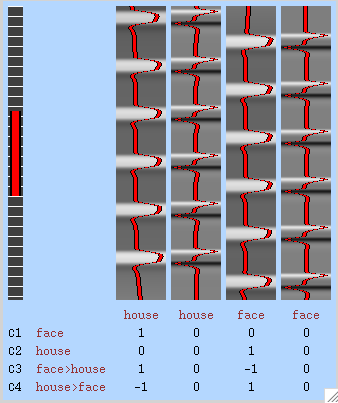
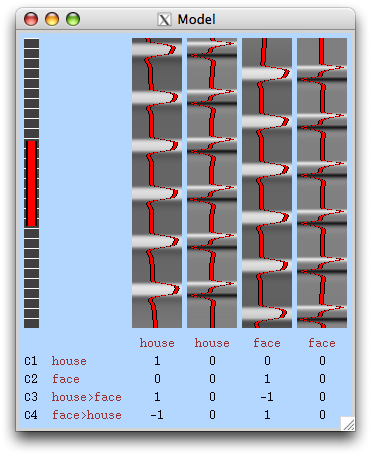
updated thirdlevel tutorial images

diff --git a/doc/tutorial_thirdlevel/tutorial.rst b/doc/tutorial_thirdlevel/tutorial.rst
@@ -208,9 +208,7 @@ When making these design files for your own projects, do not use a Windows machi
 
 .. _`problems with line endings`: http://en.wikipedia.org/wiki/Newline#Common_problems
 
-To use these files to specify the design, click the "Full model setup" button. Set EV name to "house". FSL calls regressors EV's, short for Explanatory Variables. Set "Basic shape" to "Custom (3 column format)" and select *design/house.txt*. That file on its own describes a square wave; to account for the shape of the BOLD response, we convolve it with another function that models the hemodynamic response to a stimulus. Set "Convolution" to "Double-Gamma HRF". Now to set up the face regressor set "Number of original EVs" to 2 and click to tab 2.
-
-.. image:: https://github.com/ntblab/neuropipe-support/raw/dev/doc/tutorial_thirdlevel/feat-stats-ev1.png
+To use these files to specify the design, click the "Full model setup" button. Set "EV name" to "house". FSL calls regressors EV's, short for Explanatory Variables. Set "Basic shape" to "Custom (3 column format)" and select *design/house.txt*. That file on its own describes a square wave; to account for the shape of the BOLD response, we convolve it with another function that models the hemodynamic response to a stimulus. Set "Convolution" to "Double-Gamma HRF". Now to set up the face regressor set "Number of original EVs" to 2 and click to tab 2.
 
 Set EV name to "face". Set "Basic shape" to "Custom (3 column format)" and select *design/face.txt*. Change "Convolution" to "Double-Gamma HRF", like we did for the house regressor.
 
@@ -218,7 +216,10 @@ Set EV name to "face". Set "Basic shape" to "Custom (3 column format)" and selec
 
 Now go to the "Contrasts & F-tests" tab. Increase "Contrasts" to 4. There is now a matrix of number fields with a row for each contrast and a column for each EV. You specify a contrast as a linear combination of the parameter estimates on each regressor. We'll make one contrast to show the main effect of the face regressor, one to show the main effect of the house regressor, one to show where the house regressor is greater than the face regressor, and one to show where the face regressor is greater:
 
-* Set the 1st row's title to "face", it's "EV1" value to 1, and it's "EV2" value to 0. * Set the 2nd row's title to "house", it's "EV1" value to 0, and it's "EV2" value to 1. * Set the 3rd row's title to "face>house", it's "EV1" value to 1, and it's "EV2" value to -1. * Set the 4th row's title to "house>face", it's "EV1" value to -1, and it's "EV2" value to 1.
+* Set the 1st row's title to "house", it's "EV1" value to 1, and it's "EV2" value to 0. 
+* Set the 2nd row's title to "face", it's "EV1" value to 0, and it's "EV2" value to 1. 
+* Set the 3rd row's title to "house>face", it's "EV1" value to 1, and it's "EV2" value to -1. 
+* Set the 4th row's title to "face>house", it's "EV1" value to -1, and it's "EV2" value to 1.
 
 .. image:: https://github.com/ntblab/neuropipe-support/raw/dev/doc/tutorial_thirdlevel/feat-stats-contrasts-and-f-tests.png
 
@@ -230,11 +231,11 @@ Go to the Registration tab.
 
 **Summary**::
 
-$ mkdir design
-$ curl -k https://raw.github.com/ntblab/neuropipe-support/dev/doc/tutorial_thirdlevel/0831101_confba02_house.txt > design/house.txt
-$ curl -k https://raw.github.com/ntblab/neuropipe-support/dev/doc/tutorial_thirdlevel/0831101_confba02_face.txt > design/face.txt
-$ less design/house.txt
-$ less design/face.txt
+$ mkdir design/run1
+$ curl -k https://raw.github.com/ntblab/neuropipe-support/dev/doc/tutorial_thirdlevel/0831101_confba02_house.txt > design/run1/house.txt
+$ curl -k https://raw.github.com/ntblab/neuropipe-support/dev/doc/tutorial_thirdlevel/0831101_confba02_face.txt > design/run1/face.txt
+$ less design/run1/house.txt
+$ less design/run1/face.txt
 
 
 The Registration tab
@@ -246,7 +247,7 @@ The Registration tab
 
 Different subjects have different shaped brains, and may have been in different positions in the scanner. To compare the data collected from different subjects, for each subject we compute the transformation that best moves and warps their data to match a standard brain, apply those transformations, then compare each subject in this "standard space". This Registration tab is where we set the parameters used to compute the transformation; we won't actually apply the transformation until we get to group analysis.
 
-FEAT should already have a "Standard space" image selected; leave it with the default, but change the drop-down menu from "Normal search" to "Full search", or this subject's brain will be misregistered. Check "Initial structural image", and select the file *subjects/0831101_confba02/data/nifti/0831101_confba02_t1_flash01.nii.gz*. Change the drop-down menu from "Normal search" to "No search," and change the other menu from "7 DOF" to "3 DOF (translation only)." Check "Main structural image", and select the file *subjects/0831101_confba02/data/nifti/0831101_confba02_t1_mprage01.nii.gz*.
+FEAT should already have a "Standard space" image selected; leave it with the default, but change the drop-down menu from "Normal search" to "Full search", and set the other menu to "7 DOF" or this subject's brain will be misregistered. Check "Initial structural image", and select the file *subjects/0831101_confba02/data/nifti/0831101_confba02_t1_flash01.nii.gz*. Change the drop-down menu from "Normal search" to "No search," and change the other menu to "7 DOF". Check "Main structural image", and select the file *subjects/0831101_confba02/data/nifti/0831101_confba02_t1_mprage01.nii.gz*. Make sure "Normal search" and "6 DOF" are set for the main structural image.
 
 The subject's functional data is first registered to the initial structural image, then that is registered to the main structural image, which is then registered to the standard space image. All this indirection is necessary because registration can fail, and it's more likely to fail if you try to go directly from the functional data to standard space.
 
@@ -266,10 +267,7 @@ Launch FSLView::
 
   $ fslview
 
-Click File>Open... and select *analysis/firstlevel/localizer_hrf.feat/mean_func.nii.gz*; this is an image of the mean signal intensity at each voxel over the course of the run. We use it as a background to overlay a contrast image on. Click File>Add... *analysis/firstlevel/localizer_hrf.feat/stats/zstat4.nii.gz*. *zstat3.nii.gz* is an image of z-statistics for the house>face contrast being different from 0, so high intensity values in a voxel indicate that the house regressor caught much more of the variance in fMRI signal at that voxel than the face regressor. To find the PPA, we'll look for regions with really high values in *zstat4.nii.gz*. To include only these regions in the overlay, set the Min threshold at the top of FSLView to something like 8, then click around in the brain to see what regions had contrast z-stats at that threshold or above. Look for a bilateral pair of regions with zstat's at a high threshold, around the middle of the brain; that'll be the PPA.
-
-
-
+Click File>Open... and select *analysis/firstlevel/localizer_hrf.feat/mean_func.nii.gz*; this is an image of the mean signal intensity at each voxel over the course of the run. We use it as a background to overlay a contrast image on. Click File>Add... *analysis/firstlevel/localizer_hrf.feat/stats/zstat3.nii.gz*. *zstat3.nii.gz* is an image of z-statistics for the house>face contrast being different from 0, so high intensity values in a voxel indicate that the house regressor caught much more of the variance in fMRI signal at that voxel than the face regressor. To find the PPA, we'll look for regions with really high values in *zstat3.nii.gz*. To include only these regions in the overlay, set the Min threshold at the top of FSLView to something like 8, then click around in the brain to see what regions had contrast z-stats at that threshold or above. Look for a bilateral pair of regions with zstat's at a high threshold, around the middle of the brain; that'll be the PPA.
 
 Repeating the analysis for a second run
 ========================================
@@ -302,6 +300,8 @@ Make the following replacements and save the file. Be sure to include the spaces
   #. on the line starting with "set feat_files(1)", replace all of the text inside the quotes with "<?= $DATA_FILE_PREFIX ?>"
   #. on the line starting with "set initial_highres_files(1) ", replace all of the text inside the quotes with "<?= $INITIAL_HIGHRES_FILE ?>"
   #. on the line starting with "set highres_files(1)", replace all of the text inside the quotes with "<?= $HIGHRES_FILE ?>"
+  #. on the line starting with "set fmri(custom1)", replace all of the text inside the quotes with "<?= $EV1 ?>"
+  #. on the line starting with "set fmri(custom2)", replace all of the text inside the quotes with "<?= $EV2 ?>"
 
 Those bits you replaced with placeholders are the parameters that must change when analyzing a different run, a new subject, or using a different computer. After saving the file, copy it to the prototype so it's available for future subjects::
 
@@ -335,6 +335,8 @@ It consists of a function called render_firstlevel, which we'll use to render th
                     $NIFTI_DIR/${SUBJ}_localizer01 \
                     $NIFTI_DIR/${SUBJ}_t1_flash01.nii.gz \
                     $NIFTI_DIR/${SUBJ}_t1_mprage01.nii.gz \
+                    $DESIGN_DIR/run1/house.txt \
+                    $DESIGN_DIR/run1/face.txt \
                     > $FSF_DIR/localizer_hrf_01.fsf
 
   render_firstlevel $FSF_DIR/localizer_hrf.fsf.template \
@@ -343,6 +345,8 @@ It consists of a function called render_firstlevel, which we'll use to render th
                     $NIFTI_DIR/${SUBJ}_localizer02 \
                     $NIFTI_DIR/${SUBJ}_t1_flash01.nii.gz \
                     $NIFTI_DIR/${SUBJ}_t1_mprage01.nii.gz \
+                    $DESIGN_DIR/run2/house.txt \
+                    $DESIGN_DIR/run2/face.txt \
                     > $FSF_DIR/localizer_hrf_02.fsf
                     
 That hunk of code calls the function render_firstlevel, passing it the values to substitute for the template's placeholders. Each chunk of code will create a new design.fsf file, one for each localizer run. This will be useful when analyzing the next subject's data. The values in this script use a bunch of completely-uppercase variables, which are defined in *globals.sh*.  Examine *globals.sh*::
